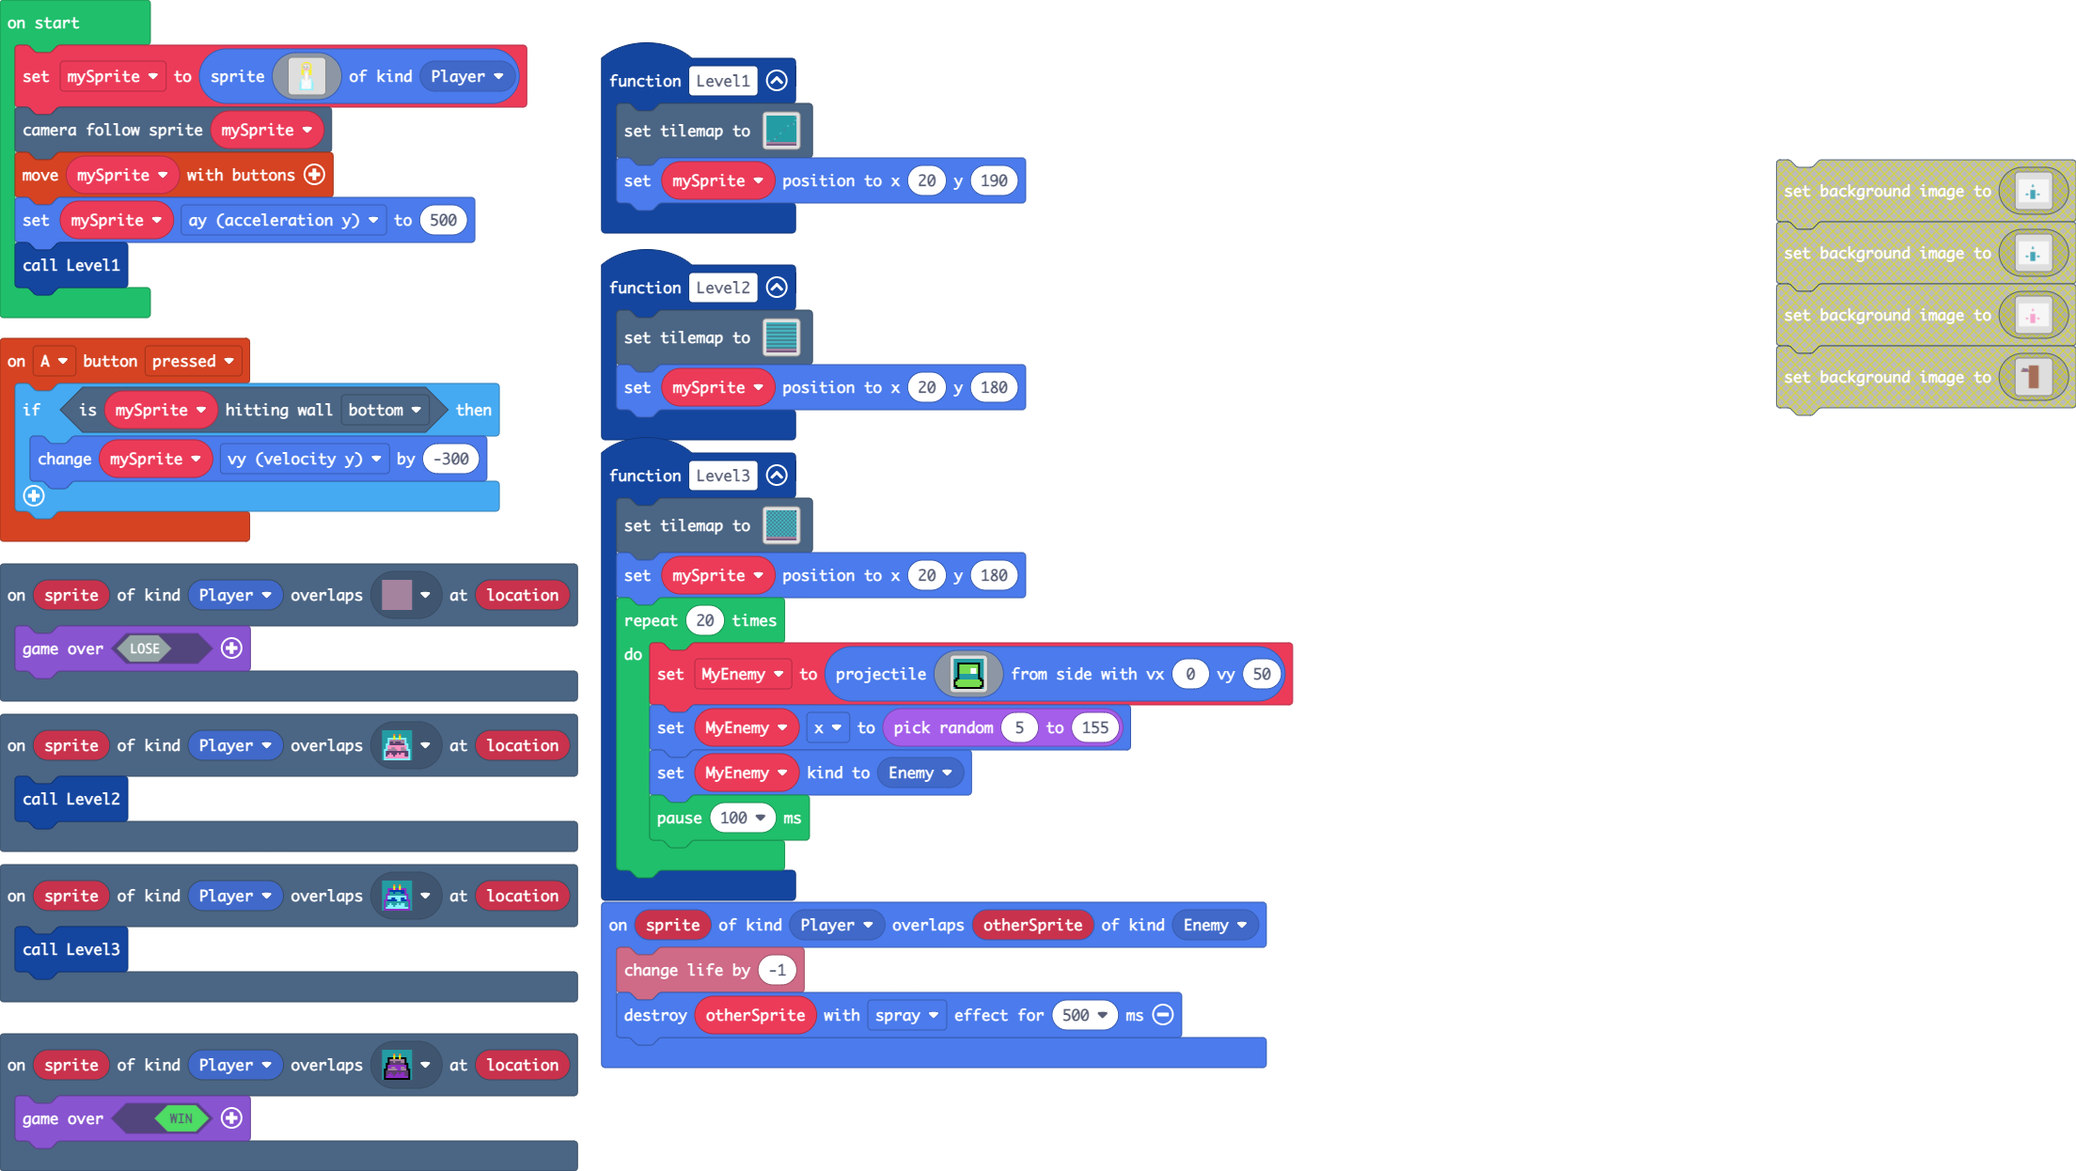
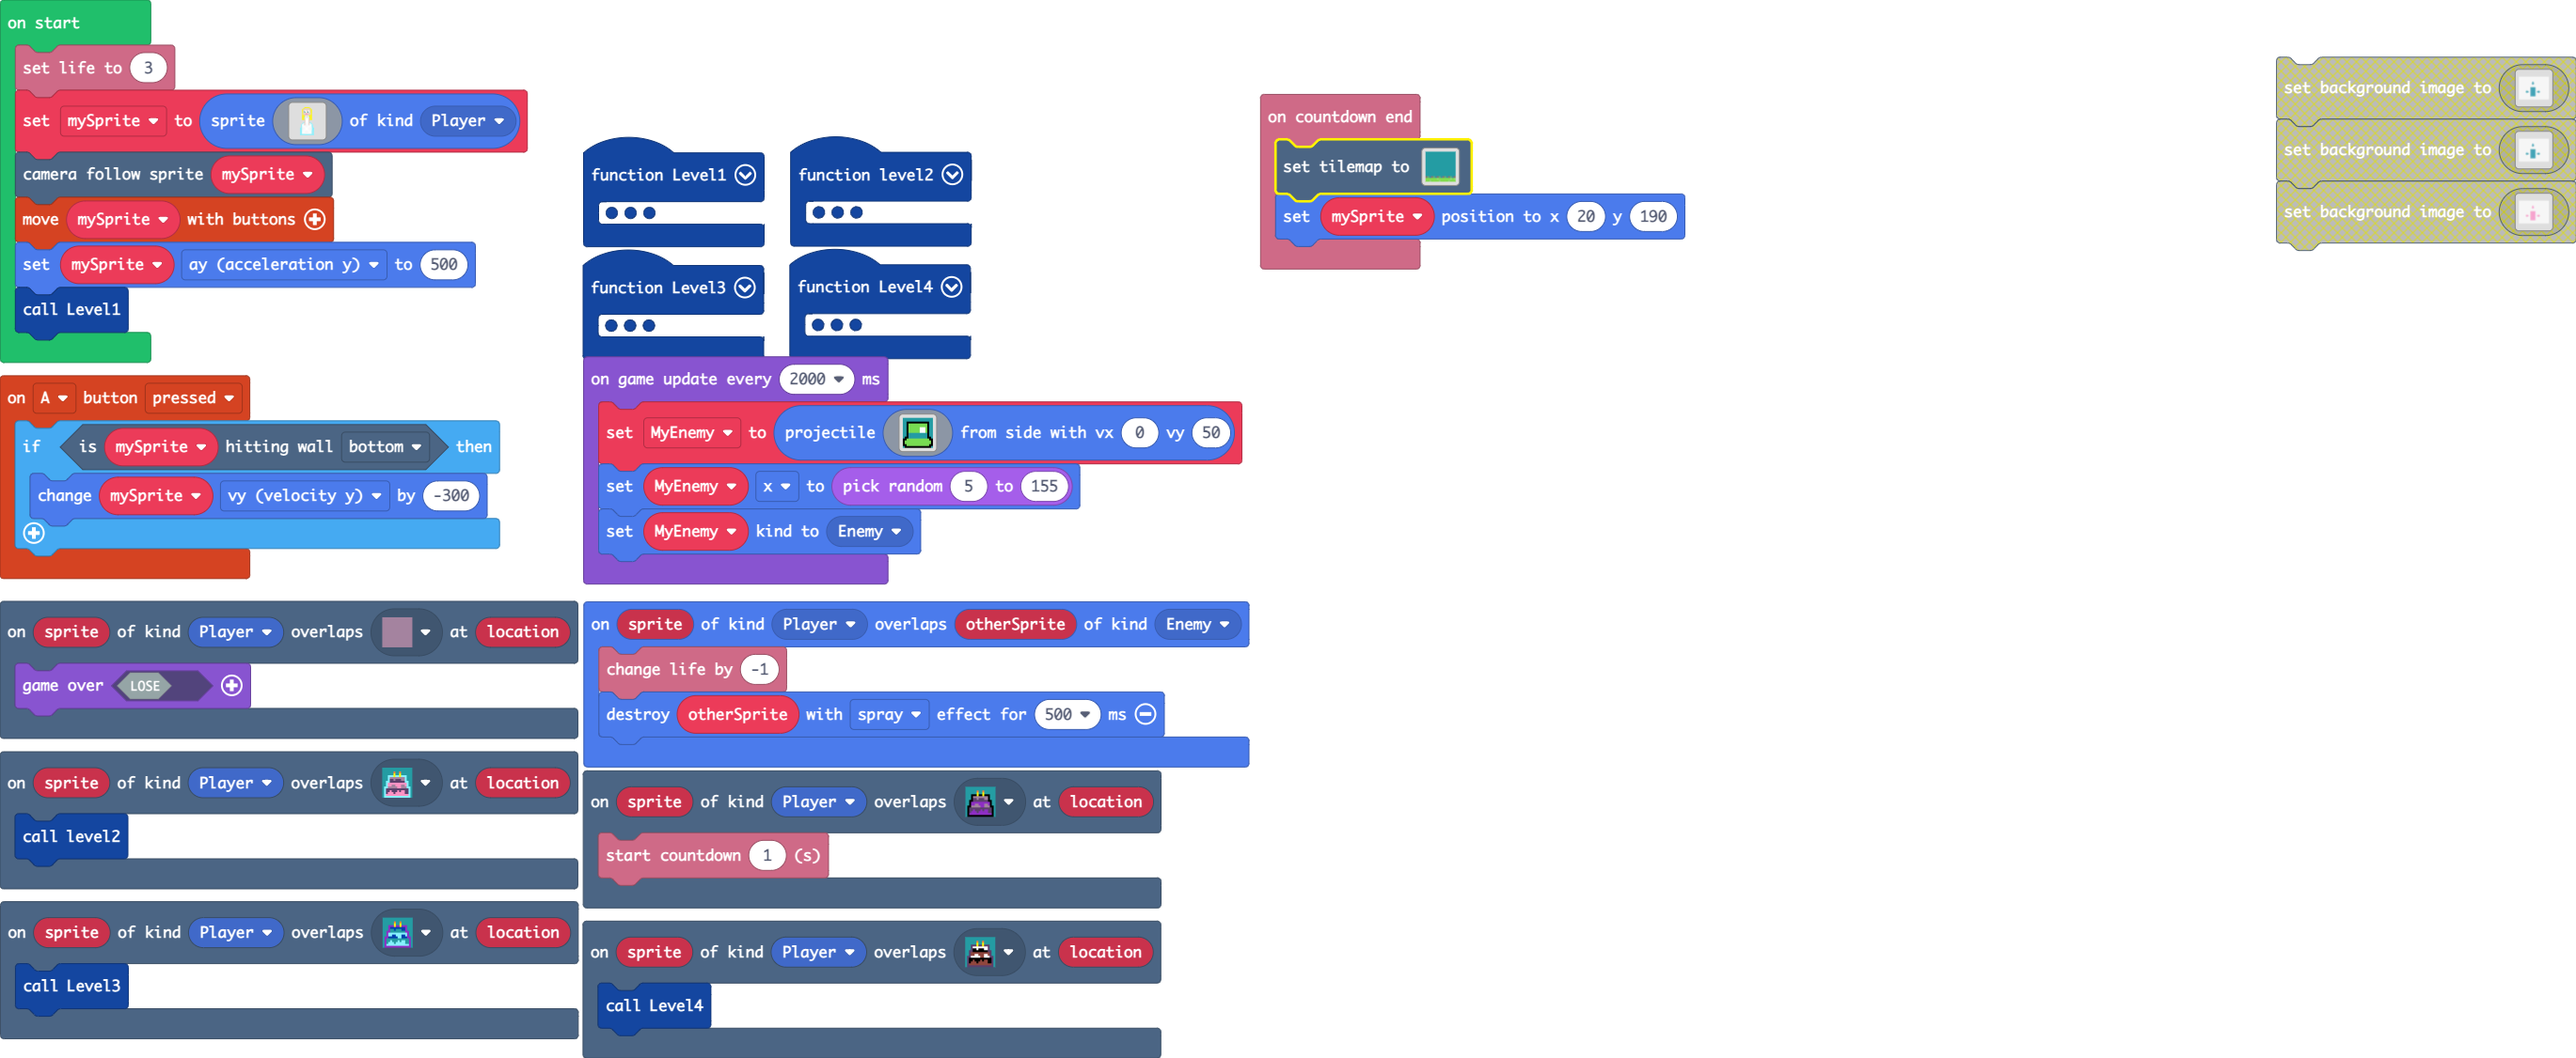
Update main.blocks, main.ts, tilemap.g.jres, tilemap.g.ts

diff --git a/tilemap.g.ts b/tilemap.g.ts
@@ -21,7 +21,15 @@ namespace myTiles {
     //% fixedInstance jres blockIdentity=images._tile
     export const tile9 = image.ofBuffer(hex``);
     //% fixedInstance jres blockIdentity=images._tile
+    export const tile12 = image.ofBuffer(hex``);
+    //% fixedInstance jres blockIdentity=images._tile
     export const tile10 = image.ofBuffer(hex``);
+    //% fixedInstance jres blockIdentity=images._tile
+    export const tile11 = image.ofBuffer(hex``);
+    //% fixedInstance jres blockIdentity=images._tile
+    export const tile13 = image.ofBuffer(hex``);
+    //% fixedInstance jres blockIdentity=images._tile
+    export const tile14 = image.ofBuffer(hex``);
 
     helpers._registerFactory("tilemap", function(name: string) {
         switch(helpers.stringTrim(name)) {
@@ -162,25 +170,6 @@ namespace myTiles {
 2 2 2 2 2 2 2 2 2 2 . . . . . . 
 2 2 2 2 2 2 2 2 2 2 2 2 2 2 2 2 
 `, [myTiles.transparency16,myTiles.tile3,myTiles.tile2,myTiles.tile6,myTiles.tile7,myTiles.tile8,myTiles.tile4], TileScale.Sixteen);
-            case "level10":
-            case "level10":return tiles.createTilemap(hex`1000100000000000000000000000000000000000000000000000000000000000000000000000000000000000000000000000000000000000000000000000000000000000000000000000000000000000000000000000000000000000000000000000000000000000000000000000000000000000000000000000000000000000000000000000000000000000000000000000000000000000000000000000000000000000000000000000000000000000000000000000000000000000000000000000000000000000000000000000000000000000000000000000000000000000000000000000000000000000000000000000000000000000000000000000000000000000`, img`
-. . . . . . . . . . . . . . . . 
-. . . . . . . . . . . . . . . . 
-. . . . . . . . . . . . . . . . 
-. . . . . . . . . . . . . . . . 
-. . . . . . . . . . . . . . . . 
-. . . . . . . . . . . . . . . . 
-. . . . . . . . . . . . . . . . 
-. . . . . . . . . . . . . . . . 
-. . . . . . . . . . . . . . . . 
-. . . . . . . . . . . . . . . . 
-. . . . . . . . . . . . . . . . 
-. . . . . . . . . . . . . . . . 
-. . . . . . . . . . . . . . . . 
-. . . . . . . . . . . . . . . . 
-. . . . . . . . . . . . . . . . 
-. . . . . . . . . . . . . . . . 
-`, [myTiles.transparency16], TileScale.Sixteen);
             case "level2":
             case "level2":return tiles.createTilemap(hex`1000100002010201020102010201020102010205010201020102010201020102010201020201020102010201020102010201020101020102010201020102010201020102020102010201020102010201020102010102010201020102010201020102010202010201020102010201020102010201010201020102010201020102010201020201020102010201020102010201020101020102010201020102010201020102020102010201020102010201020102010102010201020102010201020102010202010201020102010201020102010201010201020102010201020102010201020404040404040404040404040404040403030303030303030303030303030303`, img`
 . . . . 2 . . . 2 . . . 2 . . . 
@@ -205,12 +194,12 @@ namespace myTiles {
 . . . . . . . . . . . . . . . . 
 . . . . . . . . . . . . . . . . 
 . 2 2 2 2 2 2 2 2 2 2 2 2 . . . 
-. . . . . . . . . . . . 2 . . 2 
-. . . . . . . . . . . . 2 . . 2 
-. . . . . . . . . . . . 2 2 . . 
-2 2 2 2 2 2 2 2 2 2 2 . 2 2 . . 
-. . . . . . . . . . . . 2 . . 2 
-. . . . . . . . . . . . 2 . . 2 
+. . . . . . . . . . . . 2 . . . 
+. . . . . . . . . . . . 2 2 . 2 
+. . . . . . . . . . . . 2 . . . 
+2 2 2 2 2 2 2 2 2 2 2 . 2 . . . 
+. . . . . . . . . . . . 2 . 2 . 
+. . . . . . . . . . . . 2 . . . 
 . . . . . . . . . . . . 2 . . . 
 2 2 2 2 2 2 2 2 2 2 2 2 2 2 . . 
 . . . . . . . . . . . . . . . 2 
@@ -219,6 +208,101 @@ namespace myTiles {
 . . . . . . . . . . . . . . . . 
 2 2 2 2 2 2 2 2 2 2 2 2 2 2 2 2 
 `, [myTiles.transparency16,myTiles.tile6,myTiles.tile7,myTiles.tile3,myTiles.tile2,myTiles.tile8], TileScale.Sixteen);
+            case "level11":
+            case "level11":return tiles.createTilemap(hex`1000100000000000000000000000000000000000000000000000000000000000000000000000000000000000000000000000000000000000000000000000000000000000000000000000000000000000000000000000000000000000000000000000000000000000000000000000000000000000000000000000000000000000000000000000000000000000000000000000000000000000000000000000000000000000000000000000000000000000000000000000000000000000000000000000000000000000000000000000000000000000000000000000000000000000000000000000000000000000000000000000000000000000000000000000000000000000`, img`
+. . . . . . . . . . . . . . . . 
+. . . . . . . . . . . . . . . . 
+. . . . . . . . . . . . . . . . 
+. . . . . . . . . . . . . . . . 
+. . . . . . . . . . . . . . . . 
+. . . . . . . . . . . . . . . . 
+. . . . . . . . . . . . . . . . 
+. . . . . . . . . . . . . . . . 
+. . . . . . . . . . . . . . . . 
+. . . . . . . . . . . . . . . . 
+. . . . . . . . . . . . . . . . 
+. . . . . . . . . . . . . . . . 
+. . . . . . . . . . . . . . . . 
+. . . . . . . . . . . . . . . . 
+. . . . . . . . . . . . . . . . 
+. . . . . . . . . . . . . . . . 
+`, [myTiles.transparency16], TileScale.Sixteen);
+            case "level10":
+            case "level10":return tiles.createTilemap(hex`1000100001010101010101010101010101010106010101010101010101010101010101010101020101010301010102010101010101010101010101010101010101010301030101010101010101010101010101010101010201010101010101010101010101010101010101030101010101010101010101010101010101010102010101010101010101010101010101010101010101010101010101010101010101010103010101010101010101010101010102010101010101010101010103010101010101010101010102010101010101010101030203010101010101010101010101010505050505050505050505050505050504040404040404040404040404040404`, img`
+. . . . . . . . . . . . . . . . 
+. . . . . . . . . . . . . . . . 
+. . 2 . . . 2 . . . 2 . . . . . 
+. . . . . . . . . . . . . . 2 . 
+2 . . . . . . . . . . . . . . . 
+. . . 2 . . . . . . . . . . . . 
+. . . . . . . 2 . . . . . . . . 
+. . . . . . . . . . . 2 . . . . 
+. . . . . . . . . . . . . . . . 
+. . . . . . . . . . . . . . . 2 
+. . . . . . . . . . . . . . 2 . 
+. . . . . . . . . . 2 . . . . . 
+. . . . . . 2 . . . . . . . . . 
+2 2 2 . . . . . . . . . . . . . 
+. . . . . . . . . . . . . . . . 
+2 2 2 2 2 2 2 2 2 2 2 2 2 2 2 2 
+`, [myTiles.transparency16,myTiles.tile4,myTiles.tile3,myTiles.tile2,myTiles.tile6,myTiles.tile7,myTiles.tile12], TileScale.Sixteen);
+            case "level12":
+            case "level12":return tiles.createTilemap(hex`1000100000000000000000000000000000000000000000000000000000000000000000000000000000000000000000000000000000000000000000000000000000000000000000000000000000000000000000000000000000000000000000000000000000000000000000000000000000000000000000000000000000000000000000000000000000000000000000000000000000000000000000000000000000000000000000000000000000000000000000000000000000000000000000000000000000000000000000000000000000000000000000000000000000000000000000000000000000000000000000000000000000000000000000000000000000000000`, img`
+. . . . . . . . . . . . . . . . 
+. . . . . . . . . . . . . . . . 
+. . . . . . . . . . . . . . . . 
+. . . . . . . . . . . . . . . . 
+. . . . . . . . . . . . . . . . 
+. . . . . . . . . . . . . . . . 
+. . . . . . . . . . . . . . . . 
+. . . . . . . . . . . . . . . . 
+. . . . . . . . . . . . . . . . 
+. . . . . . . . . . . . . . . . 
+. . . . . . . . . . . . . . . . 
+. . . . . . . . . . . . . . . . 
+. . . . . . . . . . . . . . . . 
+. . . . . . . . . . . . . . . . 
+. . . . . . . . . . . . . . . . 
+. . . . . . . . . . . . . . . . 
+`, [myTiles.transparency16], TileScale.Sixteen);
+            case "level13":
+            case "level13":return tiles.createTilemap(hex`1000100000000000000000000000000000000000000000000000000000000000000000000000000000000000000000000000000000000000000000000000000000000000000000000000000000000000000000000000000000000000000000000000000000000000000000000000000000000000000000000000000000000000000000000000000000000000000000000000000000000000000000000000000000000000000000000000000000000000000000000000000000000000000000000000000000000000000000000000000000000000000000000000000000000000000000000000000000000000000000000000000000000000000000000000000000000000`, img`
+. . . . . . . . . . . . . . . . 
+. . . . . . . . . . . . . . . . 
+. . . . . . . . . . . . . . . . 
+. . . . . . . . . . . . . . . . 
+. . . . . . . . . . . . . . . . 
+. . . . . . . . . . . . . . . . 
+. . . . . . . . . . . . . . . . 
+. . . . . . . . . . . . . . . . 
+. . . . . . . . . . . . . . . . 
+. . . . . . . . . . . . . . . . 
+. . . . . . . . . . . . . . . . 
+. . . . . . . . . . . . . . . . 
+. . . . . . . . . . . . . . . . 
+. . . . . . . . . . . . . . . . 
+. . . . . . . . . . . . . . . . 
+. . . . . . . . . . . . . . . . 
+`, [myTiles.transparency16], TileScale.Sixteen);
+            case "level14":
+            case "level14":return tiles.createTilemap(hex`1000100001010101010101010101010101010101010101010101010101010101010101010101010101010101010101010101010101010101010101010101010101010101010101010101010101010101010101010101010101010101010101010101010101010101010101010101010101010101010101010101010101010101010101010101010101010101010101010101010101010101010101010101010101010101010101010101010101010101010101010101010101010101010101010101010101010101010101010101010101010101050607050607050607050607050607050302030203020402030203020304030402030403020302040203020304030203`, img`
+. . . . . . . . . . . . . . . . 
+. . . . . . . . . . . . . . . . 
+. . . . . . . . . . . . . . . . 
+. . . . . . . . . . . . . . . . 
+. . . . . . . . . . . . . . . . 
+. . . . . . . . . . . . . . . . 
+. . . . . . . . . . . . . . . . 
+. . . . . . . . . . . . . . . . 
+. . . . . . . . . . . . . . . . 
+. . . . . . . . . . . . . . . . 
+. . . . . . . . . . . . . . . . 
+. . . . . . . . . . . . . . . . 
+. . . . . . . . . . . . . . . . 
+. . . . . . . . . . . . . . . . 
+2 2 2 2 2 2 2 2 2 2 2 2 2 2 2 2 
+2 2 2 2 2 2 2 2 2 2 2 2 2 2 2 2 
+`, [myTiles.transparency16,myTiles.tile4,sprites.castle.tileGrass3,sprites.castle.tileGrass1,sprites.castle.tileGrass2,myTiles.tile11,myTiles.tile13,myTiles.tile14], TileScale.Sixteen);
         }
         return null;
     })
@@ -244,8 +328,16 @@ namespace myTiles {
             case "tile8":return tile8;
             case "myTile7":
             case "tile9":return tile9;
+            case "myTile10":
+            case "tile12":return tile12;
             case "myTile8":
             case "tile10":return tile10;
+            case "myTile9":
+            case "tile11":return tile11;
+            case "myTile11":
+            case "tile13":return tile13;
+            case "myTile12":
+            case "tile14":return tile14;
         }
         return null;
     })

diff --git a/main.ts b/main.ts
@@ -1,37 +1,45 @@
 scene.onOverlapTile(SpriteKind.Player, assets.tile`myTile6`, function (sprite, location) {
     Level3()
 })
-function Level2 () {
-    tiles.setTilemap(tilemap`level7`)
-    mySprite.setPosition(20, 180)
-}
 controller.A.onEvent(ControllerButtonEvent.Pressed, function () {
     if (mySprite.isHittingTile(CollisionDirection.Bottom)) {
         mySprite.vy += -300
     }
 })
 scene.onOverlapTile(SpriteKind.Player, assets.tile`myTile7`, function (sprite, location) {
-    game.over(true)
+    info.startCountdown(1)
 })
 function Level3 () {
     tiles.setTilemap(tilemap`level2`)
+    info.setLife(3)
     mySprite.setPosition(20, 180)
-    for (let index = 0; index < 20; index++) {
-        MyEnemy = sprites.createProjectileFromSide(assets.tile`myTile8`, 0, 50)
-        MyEnemy.x = randint(5, 155)
-        MyEnemy.setKind(SpriteKind.Enemy)
-        pause(100)
-    }
 }
 scene.onOverlapTile(SpriteKind.Player, assets.tile`myTile3`, function (sprite, location) {
-    Level2()
+    level2()
 })
 function Level1 () {
     tiles.setTilemap(tilemap`level0`)
     mySprite.setPosition(20, 190)
 }
+info.onCountdownEnd(function () {
+    tiles.setTilemap(tilemap`level14`)
+    mySprite.setPosition(20, 190)
+})
+function level2 () {
+    tiles.setTilemap(tilemap`level10`)
+    info.setLife(3)
+    mySprite.setPosition(20, 190)
+}
 scene.onOverlapTile(SpriteKind.Player, sprites.swamp.swampTile16, function (sprite, location) {
     game.over(false)
+})
+function Level4 () {
+    tiles.setTilemap(tilemap`level7`)
+    info.setLife(3)
+    mySprite.setPosition(20, 180)
+}
+scene.onOverlapTile(SpriteKind.Player, assets.tile`myTile10`, function (sprite, location) {
+    Level4()
 })
 sprites.onOverlap(SpriteKind.Player, SpriteKind.Enemy, function (sprite, otherSprite) {
     info.changeLifeBy(-1)
@@ -39,6 +47,7 @@ sprites.onOverlap(SpriteKind.Player, SpriteKind.Enemy, function (sprite, otherSp
 })
 let MyEnemy: Sprite = null
 let mySprite: Sprite = null
+info.setLife(3)
 mySprite = sprites.create(img`
     ...............
     .....55555.....
@@ -73,3 +82,8 @@ scene.cameraFollowSprite(mySprite)
 controller.moveSprite(mySprite)
 mySprite.ay = 500
 Level1()
+game.onUpdateInterval(2000, function () {
+    MyEnemy = sprites.createProjectileFromSide(assets.tile`myTile8`, 0, 50)
+    MyEnemy.x = randint(5, 155)
+    MyEnemy.setKind(SpriteKind.Enemy)
+})
